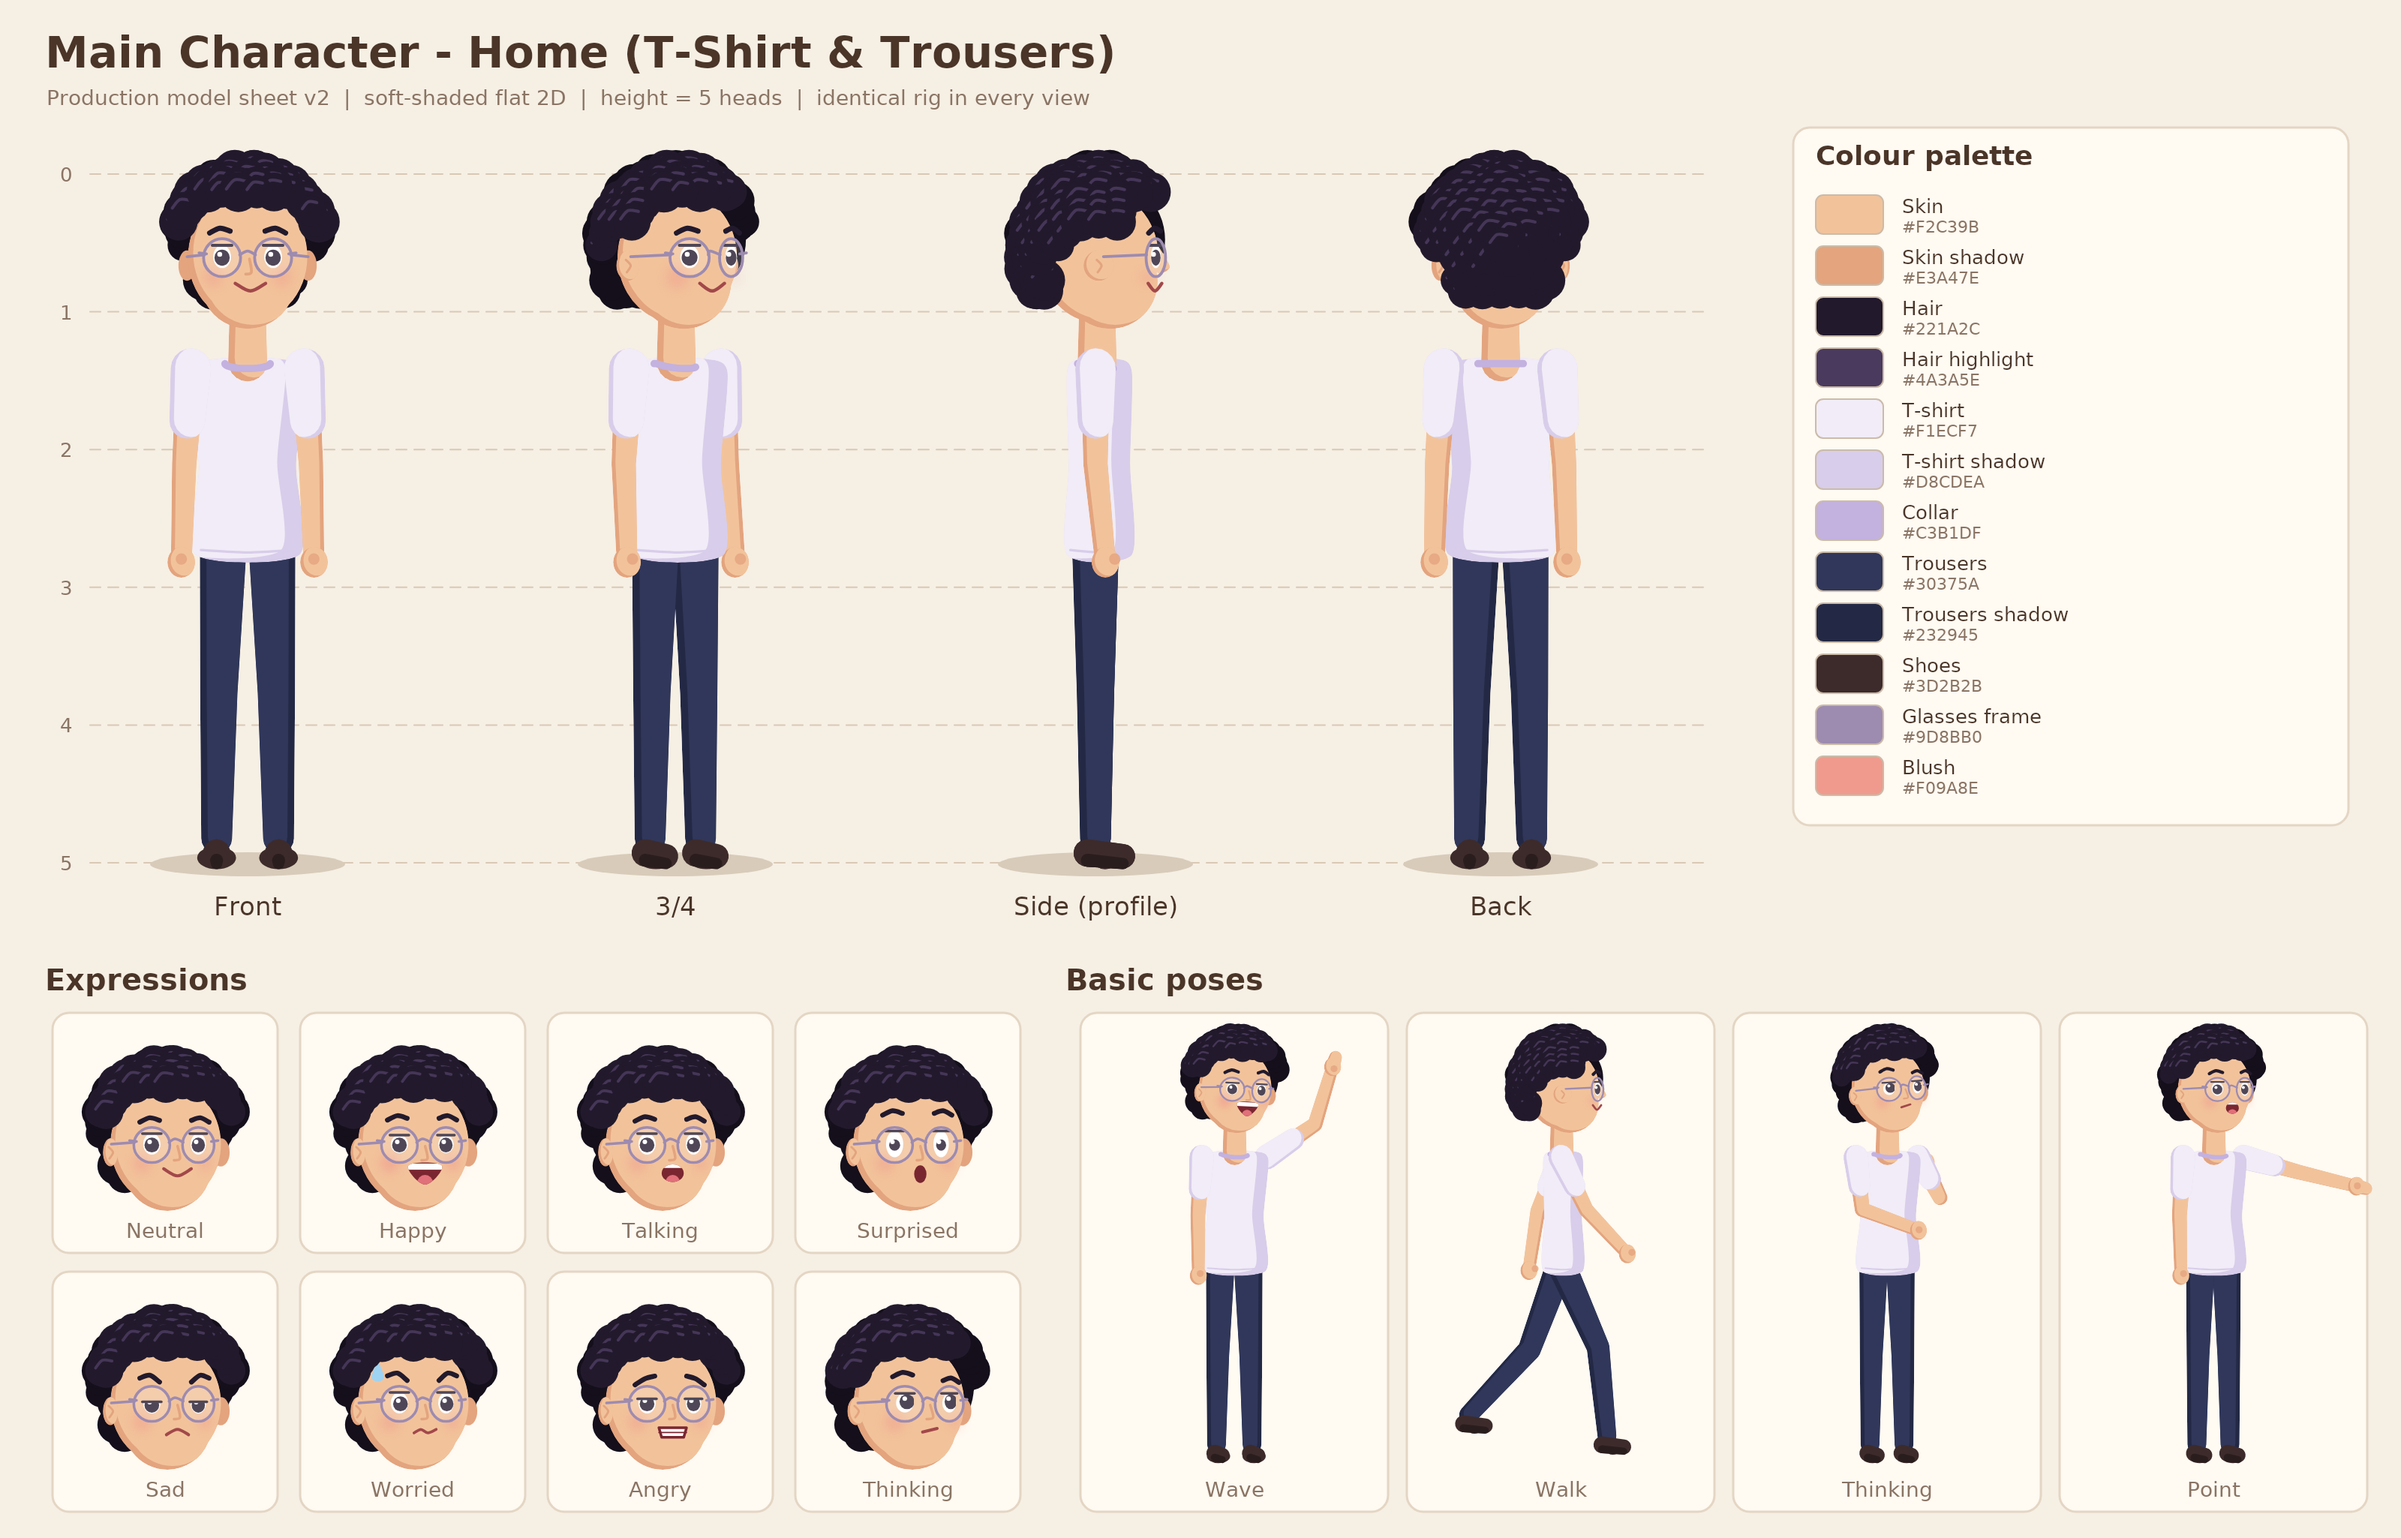
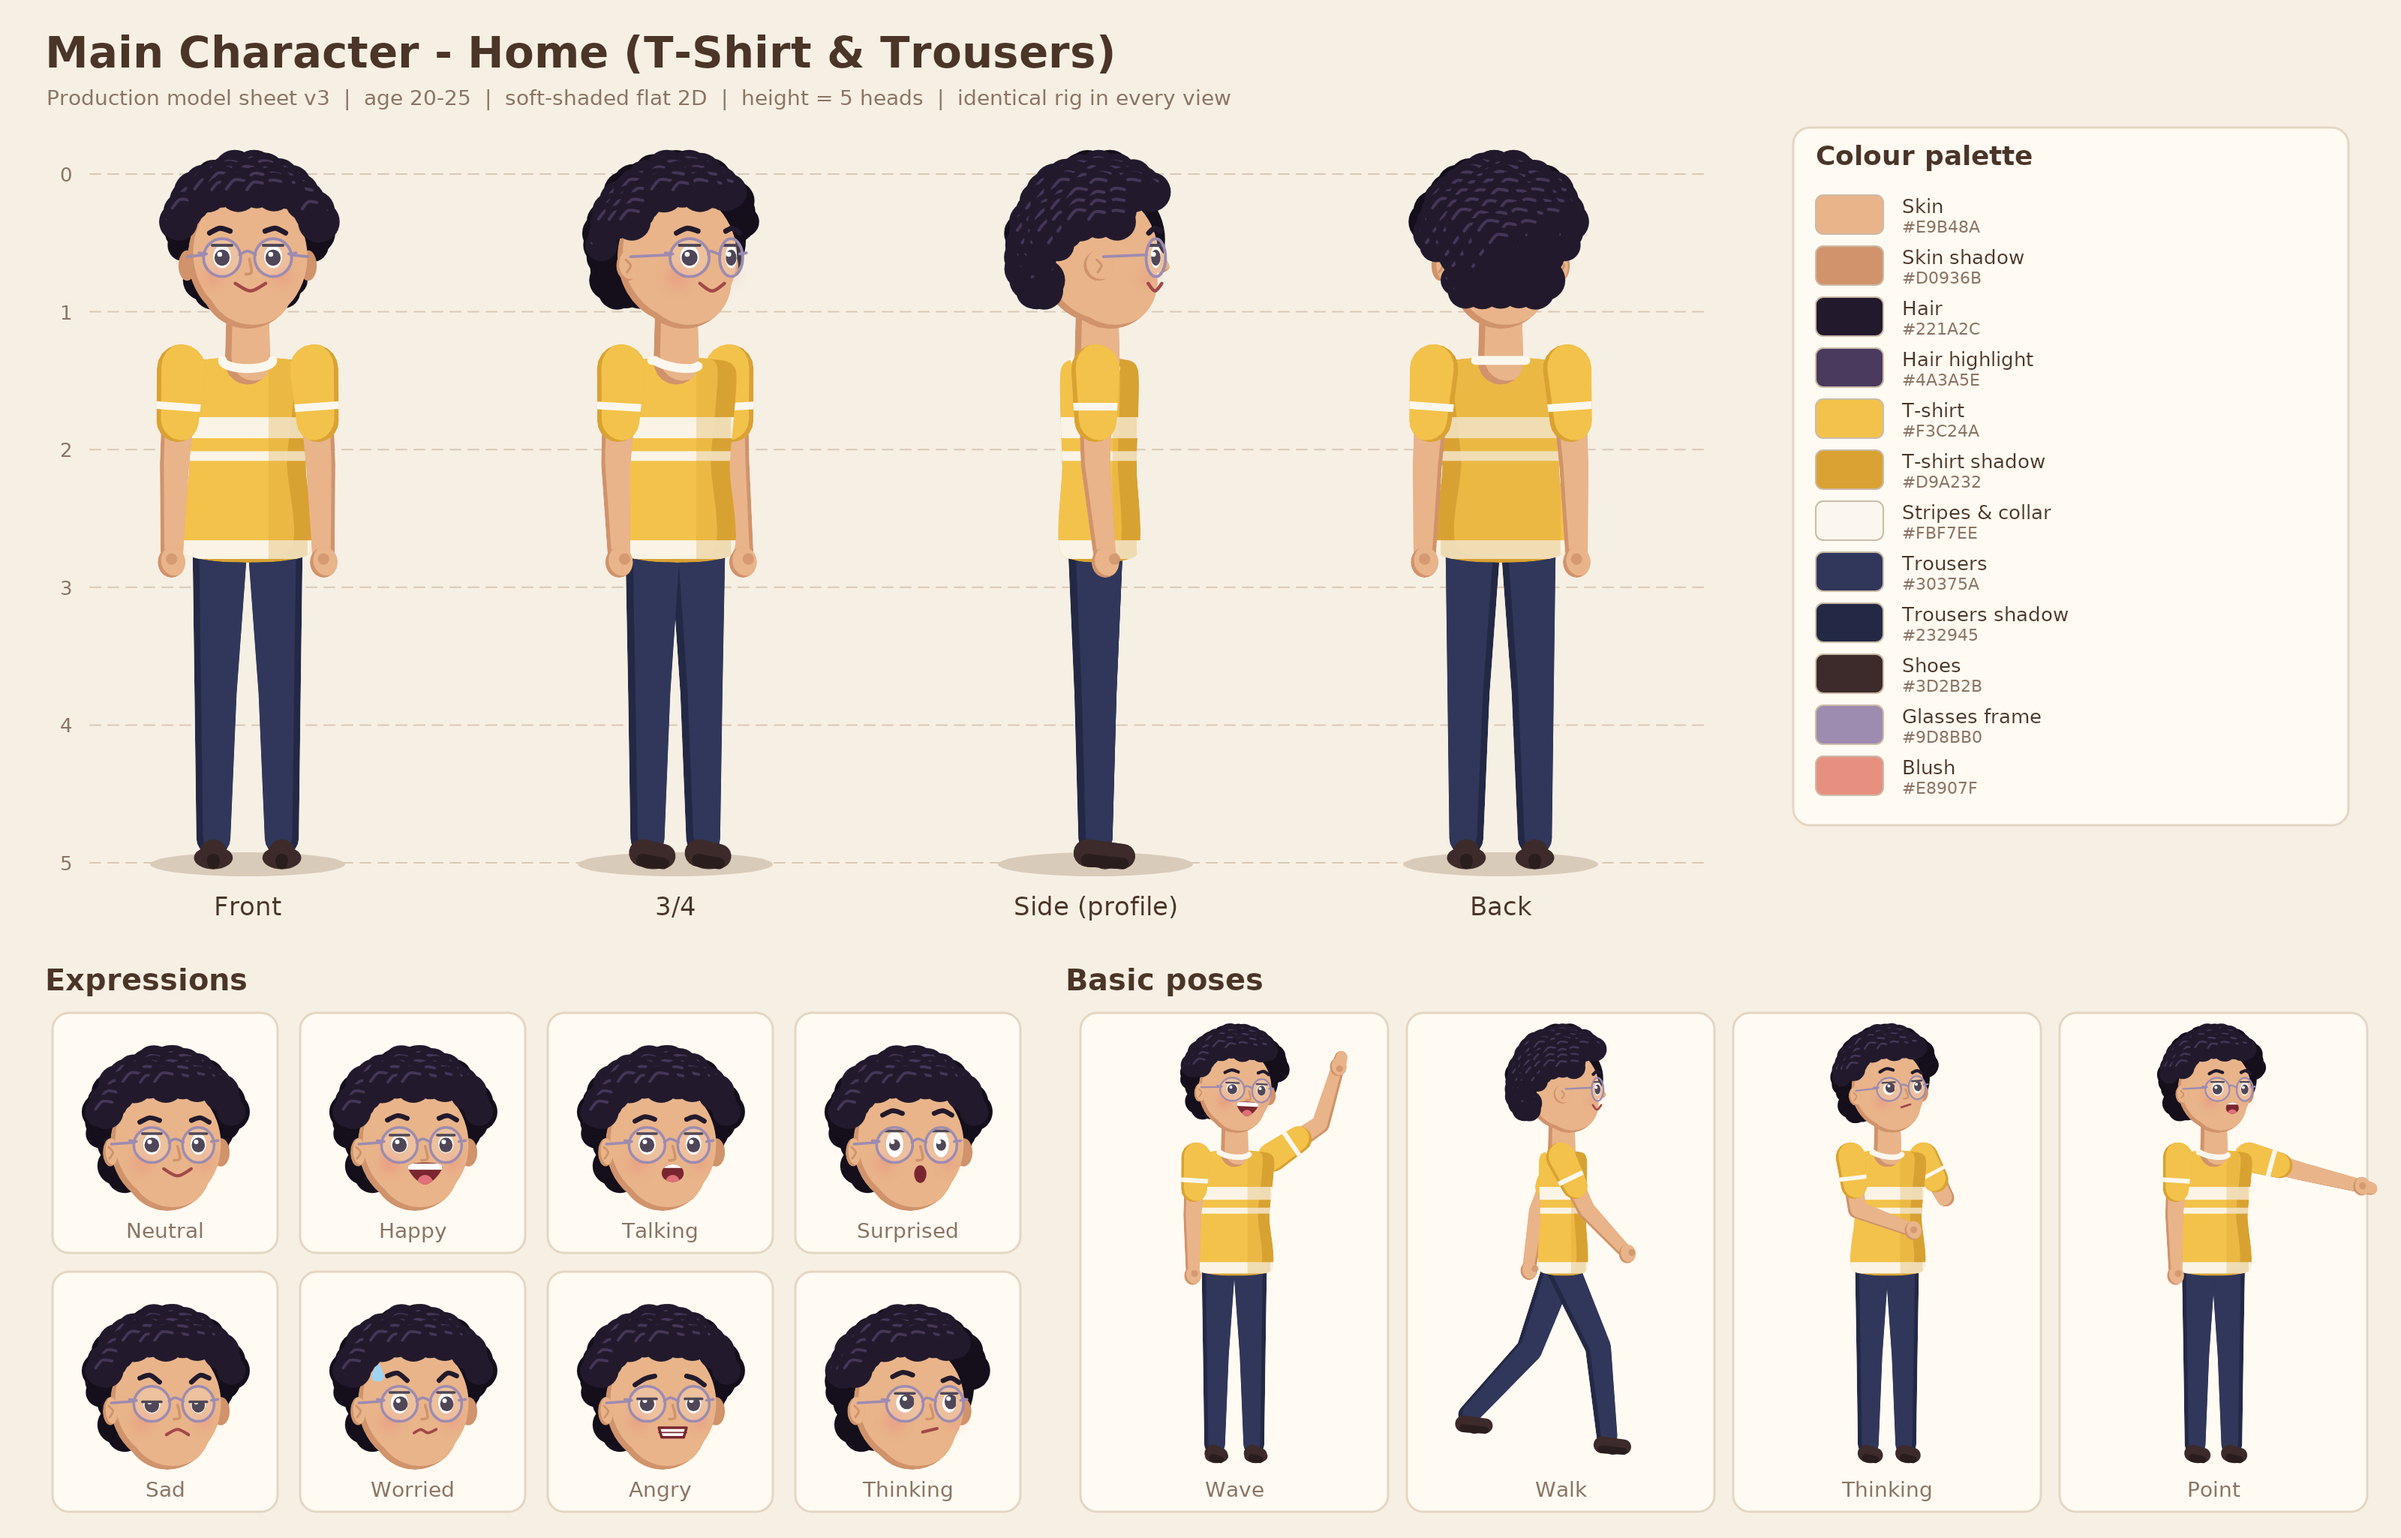
Model sheet v3: sturdier 20-25 build, wheatish skin, yellow/white striped tee, proper collar
Claude-Session: https://claude.ai/code/session_01BTZxPt8MYFveZ9Vv2CwFJ6

diff --git a/engine/turnaround.py b/engine/turnaround.py
@@ -10,9 +10,9 @@ import skia
 from .draw import paint, poly, smooth_path, ellipse, capsule, union, cel, mix
 
 PAL = dict(
-    skin="#f2c39b", skin_sh="#e3a47e", skin_line="#b9785a", blush="#f09a8e",
+    skin="#e9b48a", skin_sh="#d0936b", skin_line="#a86e4e", blush="#e8907f",
     hair="#221a2c", hair_sh="#140f1b", hair_hi="#4a3a5e",
-    shirt="#f1ecf7", shirt_sh="#d8cdea", collar="#c3b1df",
+    shirt="#f3c24a", shirt_sh="#d9a232", collar="#fbf7ee", stripe="#fbf7ee",
     pants="#30375a", pants_sh="#232945",
     shoe="#3d2b2b", shoe_sh="#2a1d1d",
     eye="#2a2033", frame="#9d8bb0", lens="#ffffff",
@@ -20,7 +20,7 @@ PAL = dict(
 
 # proportions (px at scale 1); ground = 0, y measured downward from crown
 H = dict(head_c=102, chin=170, neck=200, shoulder=228, hem=470, hip=455, knee=640, ankle=820, sole=850)
-SH_W, HIP_W = 70, 30
+SH_W, HIP_W = 82, 34
 UPPER, FORE, THIGH, SHIN = 118, 108, 185, 180
 
 
@@ -243,8 +243,8 @@ def draw_character(cv, cx, ground, a, s=1.0, pose=None):
         ank = add(knee, vec(ab * 0.5, fw2, side), SHIN)
         toe_dir = (0, 1, 0)
         def fn():
-            th = capsule(P(*hip), P(*knee), 29 * s, 23 * s)
-            sh = capsule(P(*knee), P(*ank), 23 * s, 19 * s)
+            th = capsule(P(*hip), P(*knee), 34 * s, 26 * s)
+            sh = capsule(P(*knee), P(*ank), 26 * s, 21 * s)
             lg = union(th, sh)
             heel = P(ank[0], ank[1] - 10, ank[2] + 18)
             toe = P(ank[0], ank[1] + 34, ank[2] + 22)
@@ -261,7 +261,7 @@ def draw_character(cv, cx, ground, a, s=1.0, pose=None):
         el = add(sh, vec(ab1, fw1, side), UPPER)
         wr = add(el, vec(ab2, fw2, side), FORE)
         def fn():
-            fore = union(capsule(P(*sh), P(*el), 18 * s, 15 * s), capsule(P(*el), P(*wr), 15 * s, 13 * s))
+            fore = union(capsule(P(*sh), P(*el), 22 * s, 18 * s), capsule(P(*el), P(*wr), 18 * s, 14 * s))
             cel(cv, fore, PAL["skin"], PAL["skin_sh"], light=(-side * 0.8, -0.3), depth=6 * s)
             hv = vec(ab2, fw2, side)
             hp = P(*add(wr, hv, 14))
@@ -272,14 +272,19 @@ def draw_character(cv, cx, ground, a, s=1.0, pose=None):
             thumb_side = P(*add(add(wr, hv, 10), (0, 1, 0), 12))
             cv.drawCircle(thumb_side[0], thumb_side[1], 7 * s, paint(PAL["skin_sh"], 0.8))
             sl_end = add(sh, vec(ab1, fw1, side), UPPER * 0.55)
-            sleeve = capsule(P(*sh), P(*sl_end), 25 * s, 22 * s)
+            sleeve = capsule(P(*sh), P(*sl_end), 30 * s, 26 * s)
             cel(cv, sleeve, PAL["shirt"], PAL["shirt_sh"], light=(-side * 0.8, -0.3), depth=7 * s)
+            cv.save(); cv.clipPath(sleeve, skia.ClipOp.kIntersect, True)
+            b0, b1 = P(*add(sh, vec(ab1, fw1, side), UPPER * 0.36)), P(*add(sh, vec(ab1, fw1, side), UPPER * 0.44))
+            bp = paint(PAL["stripe"], stroke=80 * s); bp.setStrokeCap(skia.Paint.kButt_Cap)
+            cv.drawLine(*b0, *b1, bp)
+            cv.restore()
         items.append((P.depth(side * SH_W, 0) + 1, fn))
 
     def torso():
-        hw_sh = math.hypot(SH_W * math.cos(a), 40 * math.sin(a))
-        hw_w = math.hypot(60 * math.cos(a), 38 * math.sin(a))
-        hw_h = math.hypot(64 * math.cos(a), 40 * math.sin(a))
+        hw_sh = math.hypot(SH_W * math.cos(a), 48 * math.sin(a))
+        hw_w = math.hypot(72 * math.cos(a), 46 * math.sin(a))
+        hw_h = math.hypot(74 * math.cos(a), 46 * math.sin(a))
         fx = 5 * math.sin(a) * s
         x0 = P(0, 0, 0)[0] + fx
         top = P.top
@@ -289,21 +294,24 @@ def draw_character(cv, cx, ground, a, s=1.0, pose=None):
                (x0 + hw_sh * s, y(H["shoulder"] + 16)), (x0 + hw_w * s, y(360)), (x0 + hw_h * s, y(H["hem"]))]
         body = smooth_path(pts, tension=0.35)
         cel(cv, body, PAL["shirt"], PAL["shirt_sh"], light=(-0.9 if math.cos(a) > 0 else 0.9, -0.2), depth=26 * s)
-        cv.drawPath(smooth_path([(x0 - hw_h * s * 0.9, y(H["hem"] - 6)), (x0, y(H["hem"] - 3)), (x0 + hw_h * s * 0.9, y(H["hem"] - 6))], close=False),
-                    paint(PAL["shirt_sh"], stroke=3 * s))
+        cv.save(); cv.clipPath(body, skia.ClipOp.kIntersect, True)
+        for y0, y1 in ((300, 326), (342, 354), (H["hem"] - 18, H["hem"] + 5)):
+            cv.drawRect(skia.Rect(x0 - 200 * s, y(y0), x0 + 200 * s, y(y1)), paint(PAL["stripe"], 0.95))
+        cv.drawRect(skia.Rect(x0 + (hw_h * 0.35 if math.cos(a) > 0 else -hw_h) * s, y(H["shoulder"]), x0 + hw_h * s, y(H["hem"] + 10)), paint(PAL["shirt_sh"], 0.28))
+        cv.restore()
         # neck + collar ring
-        nk = capsule(P(0, 2, H["chin"] - 10), P(0, 2, H["shoulder"] + 4), 22 * s, 24 * s)
+        nk = capsule(P(0, 2, H["chin"] - 10), P(0, 2, H["shoulder"] + 4), 26 * s, 28 * s)
         cel(cv, nk, PAL["skin"], PAL["skin_sh"], depth=8 * s)
         ring = []
         for k in range(41):
             ph = 2 * math.pi * k / 40
-            o, d = 28 * math.cos(ph), 22 * math.sin(ph)
+            o, d = 31 * math.cos(ph), 25 * math.sin(ph)
             if P.depth(o, d) > -2:
-                ring.append(P(o, d, H["shoulder"] + 6 + 6 * max(0, math.sin(ph))))
+                ring.append(P(o, d, H["shoulder"] + 2 + 10 * max(0, math.sin(ph))))
             elif len(ring) > 1:
-                cv.drawPath(poly(ring, close=False), paint(PAL["collar"], stroke=9 * s)); ring = []
+                cv.drawPath(poly(ring, close=False), paint(PAL["collar"], stroke=11 * s)); ring = []
         if len(ring) > 1:
-            cv.drawPath(poly(ring, close=False), paint(PAL["collar"], stroke=9 * s))
+            cv.drawPath(poly(ring, close=False), paint(PAL["collar"], stroke=11 * s))
     items.append((0, torso))
     leg(-1, p["leg_r"]); leg(1, p["leg_l"])
     arm(-1, p["arm_r"], p["hand_r"]); arm(1, p["arm_l"], p["hand_l"])

diff --git a/sheets/model_sheet.py b/sheets/model_sheet.py
@@ -21,7 +21,7 @@ def card(cv, x, y, w, h):
 
 surf = skia.Surface(W, Hh); cv = surf.getCanvas(); cv.clear(skia.Color4f(0.965, 0.937, 0.894, 1))
 text(cv, "Main Character - Home (T-Shirt & Trousers)", 60, 90, 58, bold=True)
-text(cv, "Production model sheet v2  |  soft-shaded flat 2D  |  height = 5 heads  |  identical rig in every view", 62, 140, 28, SUB)
+text(cv, "Production model sheet v3  |  age 20-25  |  soft-shaded flat 2D  |  height = 5 heads  |  identical rig in every view", 62, 140, 28, SUB)
 
 # ---------------- turnaround
 G, S = 1150, 1.08
@@ -45,7 +45,7 @@ px, py = 2420, 220
 card(cv, px - 30, py - 50, 740, 930)
 text(cv, "Colour palette", px, py, 36, bold=True)
 sw = [("Skin", PAL["skin"]), ("Skin shadow", PAL["skin_sh"]), ("Hair", PAL["hair"]), ("Hair highlight", PAL["hair_hi"]),
-      ("T-shirt", PAL["shirt"]), ("T-shirt shadow", PAL["shirt_sh"]), ("Collar", PAL["collar"]), ("Trousers", PAL["pants"]),
+      ("T-shirt", PAL["shirt"]), ("T-shirt shadow", PAL["shirt_sh"]), ("Stripes & collar", PAL["stripe"]), ("Trousers", PAL["pants"]),
       ("Trousers shadow", PAL["pants_sh"]), ("Shoes", PAL["shoe"]), ("Glasses frame", PAL["frame"]), ("Blush", PAL["blush"])]
 for i, (n, c) in enumerate(sw):
     yy = py + 40 + i * 68
